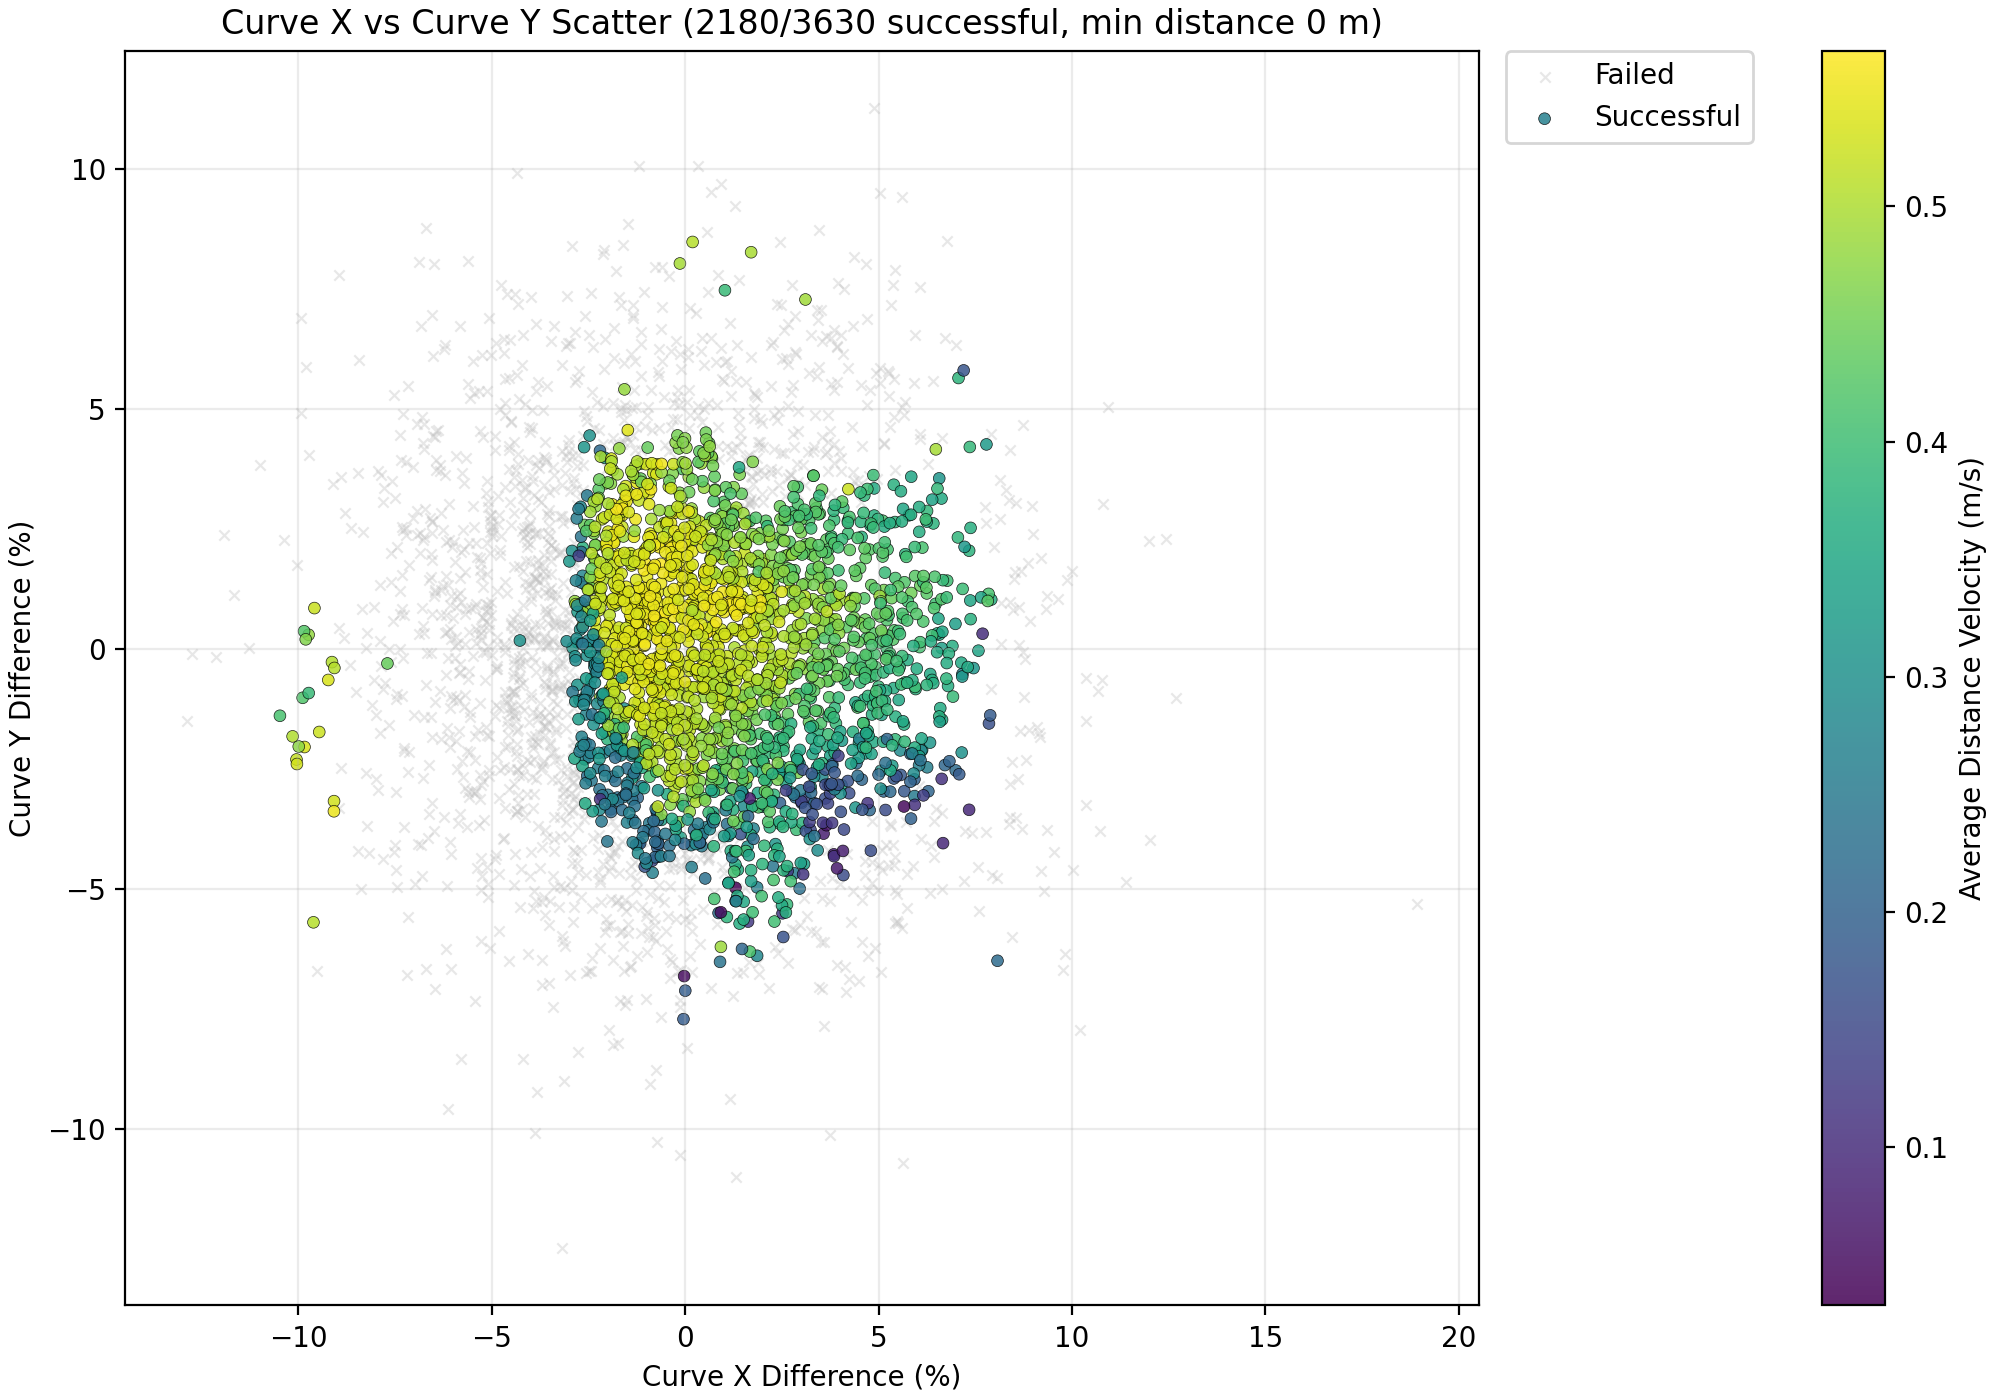
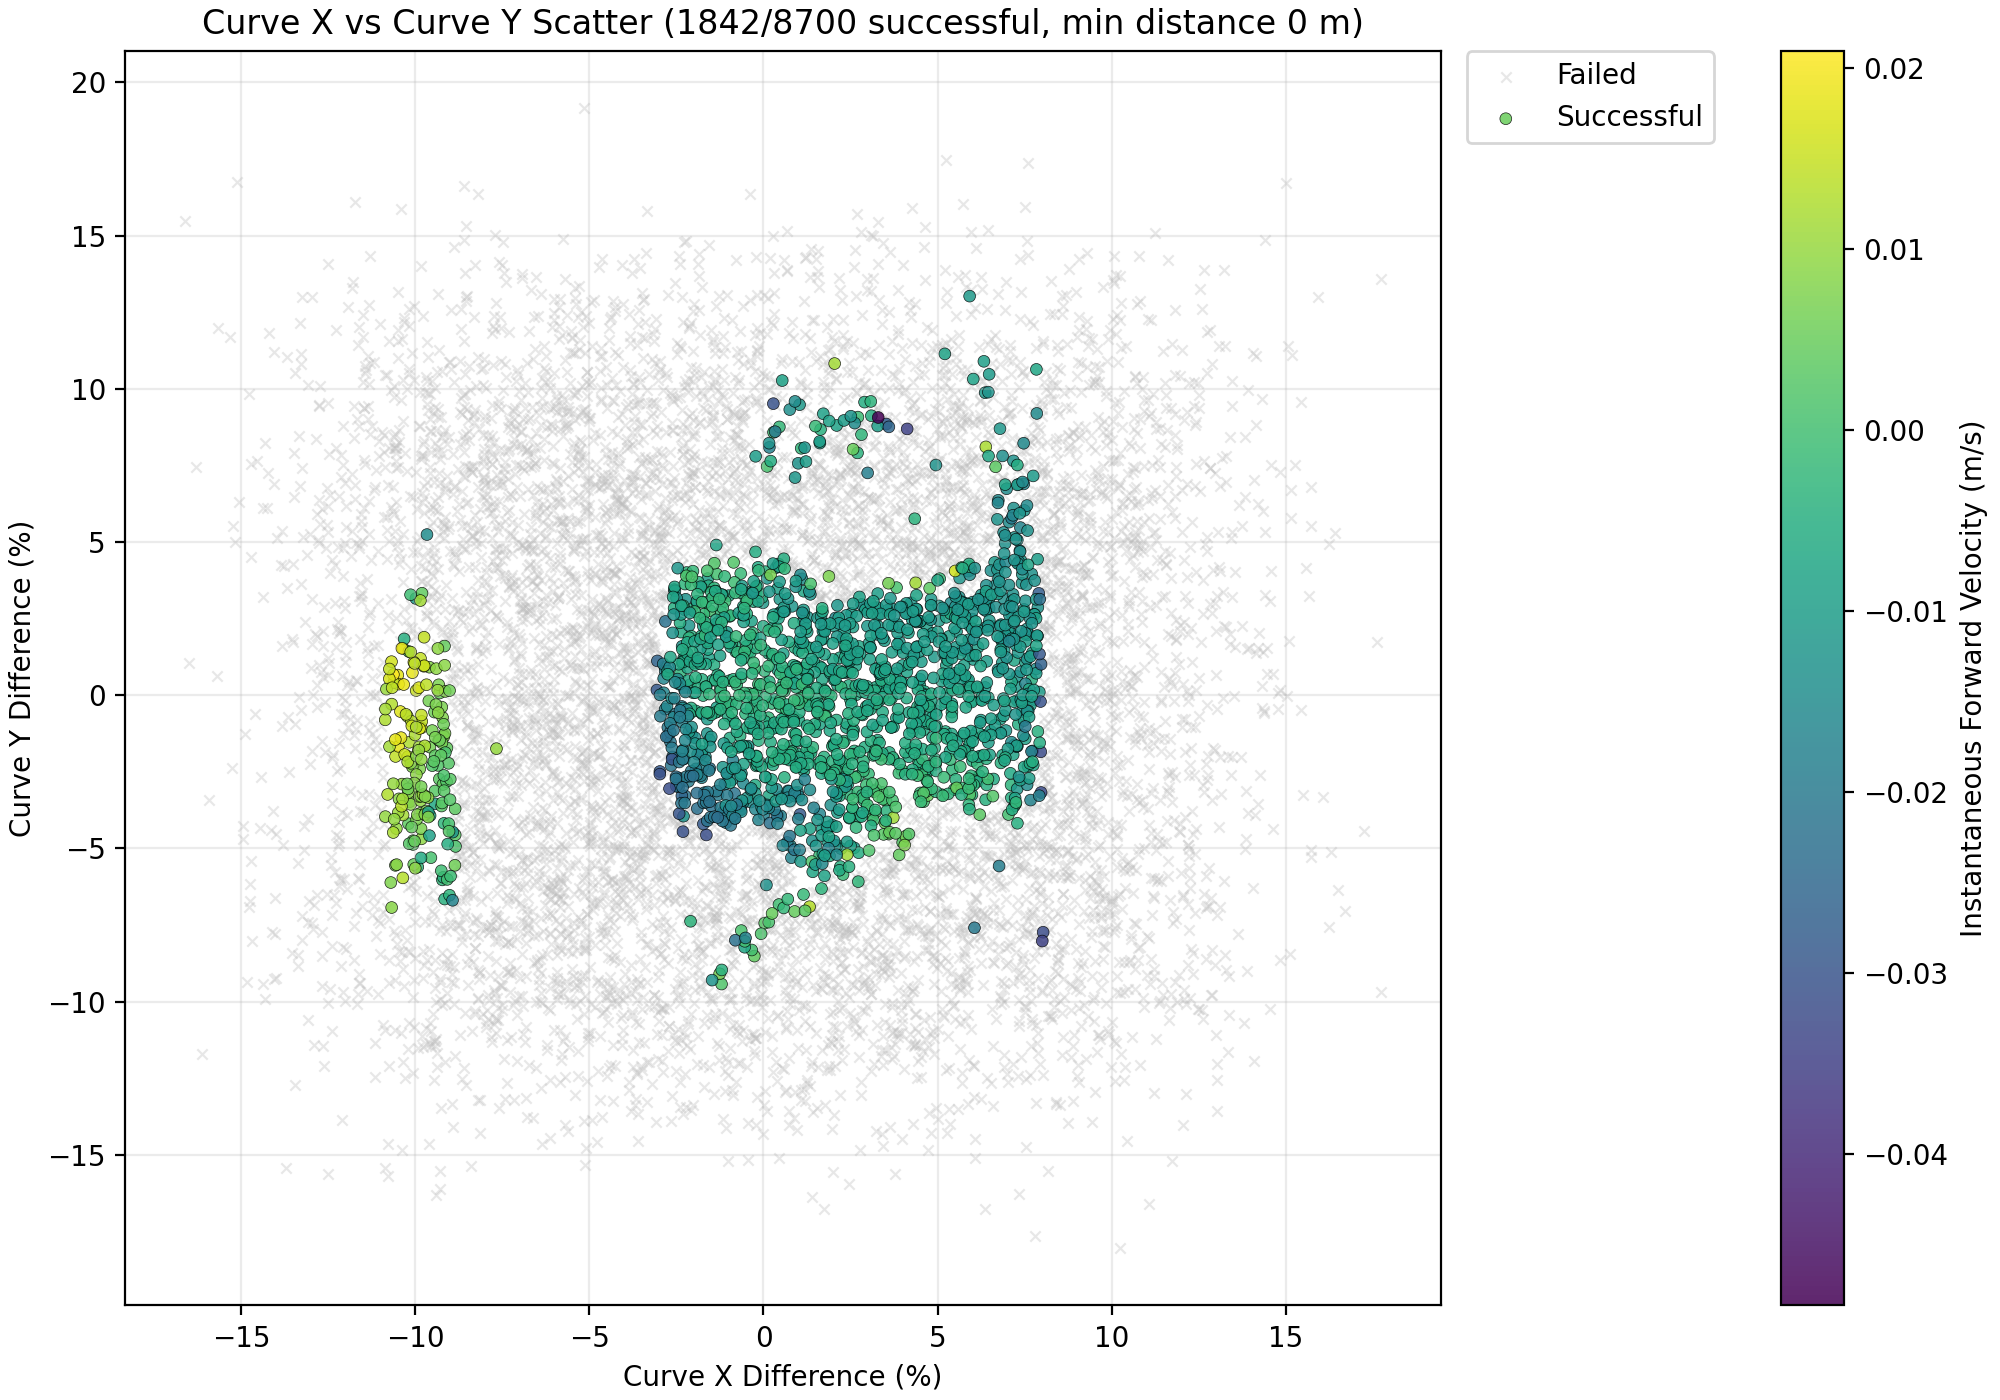
finished all the sweeps and plots

diff --git a/sweep_plotter_3d.py b/sweep_plotter_3d.py
@@ -56,7 +56,7 @@ METRIC_OPTIONS: tuple[MetricOption, ...] = (
     MetricOption("forward_progress", "Instantaneous Forward Progress", ("Instantaneous_Forward_Progress",)),
     MetricOption("forward_absolute", "Instantaneous Forward Absolute", ("Instantaneous_Forward_Absolute",)),
     MetricOption("lateral_progress", "Instantaneous Lateral Progress", ("Instantaneous_Lateral_Progress",)),
-    MetricOption("velocity", "Instantaneous Forward Velocity (m/s)", (), derived="velocity"),
+    MetricOption("velocity", "Average Distance Velocity (m/s)", ("Average_Distance_Velocity",)),
     MetricOption("roll", "Average Absolute Roll (deg)", ("Average_Abs_Roll_Deg",)),
     MetricOption("pitch", "Average Absolute Pitch (deg)", ("Average_Abs_Pitch_Deg",)),
     MetricOption("path_length", "Path Length", ("Path_Length",)),
@@ -140,8 +140,6 @@ def metric_column(fieldnames: list[str], option: MetricOption) -> str | None:
 
 
 def derived_metric_available(fieldnames: list[str], option: MetricOption) -> bool:
-    if option.derived == "velocity":
-        return {"Instantaneous_Forward_Progress", "Motion_Time"} <= set(fieldnames)
     return False
 
 
@@ -159,6 +157,8 @@ class SweepPlotter3DApp:
         self.z_var = tk.StringVar()
         self.color_var = tk.StringVar()
         self.min_distance_var = tk.StringVar(value=str(default_success_min_distance()))
+        self.show_stems_var = tk.BooleanVar(value=False)
+        self.show_failures_var = tk.BooleanVar(value=True)
 
         self.rows: list[dict[str, str]] = []
         self.fieldnames: list[str] = []
@@ -210,6 +210,18 @@ class SweepPlotter3DApp:
         min_distance_entry.bind("<Return>", self._selection_changed)
         ttk.Button(controls, text="Redraw", command=self.redraw).grid(row=2, column=2, padx=(12, 0), pady=(10, 0))
         ttk.Button(controls, text="Save PNG", command=self.save_png).grid(row=2, column=3, padx=(12, 0), pady=(10, 0))
+        ttk.Checkbutton(
+            controls,
+            text="Z guide lines",
+            variable=self.show_stems_var,
+            command=self.redraw,
+        ).grid(row=2, column=4, padx=(12, 0), pady=(10, 0), sticky="w")
+        ttk.Checkbutton(
+            controls,
+            text="Show failures",
+            variable=self.show_failures_var,
+            command=self.redraw,
+        ).grid(row=2, column=5, padx=(12, 0), pady=(10, 0), sticky="w")
         ttk.Label(controls, textvariable=self.status_var).grid(
             row=3,
             column=0,
@@ -317,13 +329,6 @@ class SweepPlotter3DApp:
 
     def metric_values(self, label: str) -> tuple[np.ndarray, str]:
         option = self.metric_by_label[label]
-        if option.derived == "velocity":
-            values = np.array(
-                [row_instantaneous_forward_velocity(row) for row in self.rows],
-                dtype=float,
-            )
-            return values, option.label
-
         column = self.column_by_label[label]
         values = np.array([safe_float(row.get(column)) for row in self.rows], dtype=float)
         if option.percent_axis is not None:
@@ -380,18 +385,20 @@ class SweepPlotter3DApp:
         finite_xyz = np.isfinite(x_values) & np.isfinite(y_values) & np.isfinite(z_values)
         failed_mask = finite_xyz & ~successes
         success_mask = finite_xyz & successes
+        z_limits = nice_limits(z_values[finite_xyz])
 
-        self.ax.scatter(
-            x_values[failed_mask],
-            y_values[failed_mask],
-            z_values[failed_mask],
-            c="#bdbdbd",
-            marker="x",
-            s=10,
-            alpha=0.25,
-            linewidths=0.7,
-            label="Failed",
-        )
+        if self.show_failures_var.get():
+            self.ax.scatter(
+                x_values[failed_mask],
+                y_values[failed_mask],
+                z_values[failed_mask],
+                c="#6f6f6f",
+                marker="x",
+                s=12,
+                alpha=0.35,
+                linewidths=0.8,
+                label="Failed",
+            )
 
         if color_label:
             color_mask = success_mask & np.isfinite(color_values)
@@ -425,12 +432,28 @@ class SweepPlotter3DApp:
             )
             plotted_successes = int(success_mask.sum())
 
+        if self.show_stems_var.get() and success_mask.any():
+            stem_mask = success_mask
+            if color_label:
+                stem_mask = stem_mask & np.isfinite(color_values)
+            z_floor = z_limits[0]
+            for x_value, y_value, z_value in zip(x_values[stem_mask], y_values[stem_mask], z_values[stem_mask]):
+                self.ax.plot(
+                    [x_value, x_value],
+                    [y_value, y_value],
+                    [z_floor, z_value],
+                    color="#4f4f4f",
+                    alpha=0.25,
+                    linewidth=0.45,
+                    zorder=0,
+                )
+
         self.ax.set_xlabel(x_label)
         self.ax.set_ylabel(y_label)
         self.ax.set_zlabel(z_label)
         self.ax.set_xlim(*nice_limits(x_values[finite_xyz]))
         self.ax.set_ylim(*nice_limits(y_values[finite_xyz]))
-        self.ax.set_zlim(*nice_limits(z_values[finite_xyz]))
+        self.ax.set_zlim(*z_limits)
         self.ax.grid(True, alpha=0.25)
         self.ax.legend(loc="upper left", bbox_to_anchor=(1.02, 1.0), borderaxespad=0.0)
         self.ax.set_title(f"{z_label} vs {y_label} vs {x_label} ({plotted_successes}/{len(self.rows)} successful)")

diff --git a/sweep_config.py b/sweep_config.py
@@ -71,8 +71,8 @@ def scaled_values(base_value: float, percent_deltas: list[float]) -> list[float]
 
 
 SWEEP_RANGE_SPECS = {
-    "curve_x": {"mode": "scaled", "default": GEOMETRY_BASE["curve_x"], "low": -15.0, "high": 10.0, "count": 11},
-    "curve_y": {"mode": "scaled", "default": GEOMETRY_BASE["curve_y"], "low": -10.0, "high": 25.0, "count": 11},
+    "curve_x": {"mode": "scaled", "default": GEOMETRY_BASE["curve_x"], "low": -10.0, "high": 10.0, "count": 11},
+    "curve_y": {"mode": "scaled", "default": GEOMETRY_BASE["curve_y"], "low": -10.0, "high": 10.0, "count": 11},
     "curve_z": {"mode": "scaled", "default": GEOMETRY_BASE["curve_z"], "low": -30.0, "high": 30.0, "count": 11},
     "box_x": {"mode": "scaled", "default": GEOMETRY_BASE["box_x"], "low": -30.0, "high": 80.0, "count": 11},
     "box_y": {"mode": "scaled", "default": GEOMETRY_BASE["box_y"], "low": -30.0, "high": 80.0, "count": 11},
@@ -101,7 +101,7 @@ SWEEP_VALUES = {
 }
 
 # Pick the active geometry sweep axes here. Any non-empty subset is valid.
-SWEEP_AXES = ("curve_x", "box_x")
+SWEEP_AXES = ("curve_x", "curve_y")
 
 RUNS_PER_POINT = 1
 RUNS_PER_PAIR = RUNS_PER_POINT  # Backward-compatible alias.
@@ -115,7 +115,7 @@ MAX_WORKERS = 12
 TRIAL_WORKERS_PER_PAIR = None
 
 OUTPUT_XML = "modified_model.xml"
-FOLDER_NAME = "cxbx0"
+FOLDER_NAME = "cxcy1"
 SWEEP_DIR = f"data/sweeps/{FOLDER_NAME}"
 RESULTS_CSV = f"{SWEEP_DIR}/sweep_results.csv"
 GEOMETRY_CACHE_DIR = f"{SWEEP_DIR}/meshes"
@@ -123,7 +123,7 @@ SAVE_MESH_CACHE = False
 WRITE_FINAL_XML_SNAPSHOT = False
 PLOT_RESULTS_AT_END = True
 PLOT_RESULTS_PATH = f"{SWEEP_DIR}/sweep_results_plot.png"
-PLOT_COLORBAR = "pitch"  # Options: "distance", "velocity", "roll", "pitch".
+PLOT_COLORBAR = "velocity"  # Options: "distance", "velocity", "roll", "pitch".
 PREVIEW_FIRST_TRIAL = False
 OVERWRITE_RESULTS_CSV = True
 
@@ -153,12 +153,12 @@ NORMAL_TRIAL_DISTRIBUTIONS = {
                 "std": 0.02,
                 "min": 0.5*GEOMETRY_BASE["curve_x"],
                 "max": 1.5*GEOMETRY_BASE["curve_x"]},
-    "curve_y": {"use": False,
+    "curve_y": {"use": True,
                 "mean": GEOMETRY_BASE["curve_y"],
                 "std": 0.025,
                 "min": 0.5*GEOMETRY_BASE["curve_y"],
                 "max": 1.5*GEOMETRY_BASE["curve_y"]},
-    "box_x": {"use": True,
+    "box_x": {"use": False,
               "mean": GEOMETRY_BASE["box_x"],
               "std": 0.02,
               "min": 0.5*GEOMETRY_BASE["box_x"],

diff --git a/plot_sweep_results.py b/plot_sweep_results.py
@@ -38,7 +38,7 @@ ACTUAL_AXIS_VALUE_COLUMNS = {
 
 COLORBAR_METRICS = {
     "distance": ("Distance_Traversed", "Distance Traversed (m)"),
-    "velocity": ("Instantaneous_Forward_Velocity", "Instantaneous Forward Velocity (m/s)"),
+    "velocity": ("Average_Distance_Velocity", "Average Distance Velocity (m/s)"),
     "roll": ("Average_Abs_Roll_Deg", "Average Absolute Roll (deg)"),
     "pitch": ("Average_Abs_Pitch_Deg", "Average Absolute Pitch (deg)"),
 }
@@ -244,13 +244,11 @@ def row_instantaneous_forward_velocity(row: dict) -> float:
     motion_time = finite_row_value(row, "Motion_Time")
     if not math.isfinite(progress) or not math.isfinite(motion_time) or motion_time <= 1e-9:
         return float("nan")
-    return progress / motion_time
+    return progress# / motion_time
 
 
 def row_colorbar_value(row: dict, colorbar_metric: str) -> float:
     column, _label = COLORBAR_METRICS[colorbar_metric]
-    if colorbar_metric == "velocity":
-        return row_instantaneous_forward_velocity(row)
     try:
         value = float(row[column])
     except (KeyError, TypeError, ValueError):
